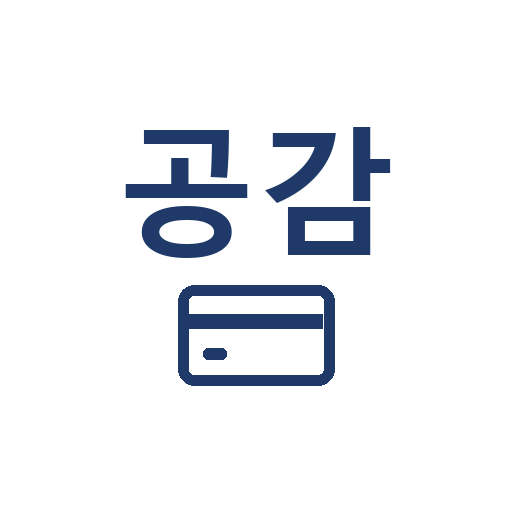
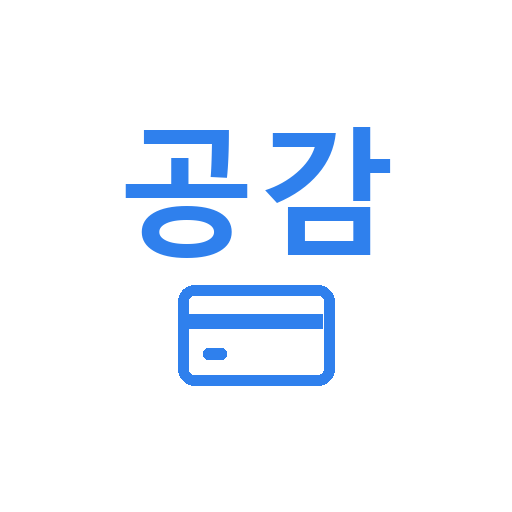
2.1.1 준비: 앱 아이콘 색을 밝은 파랑(#2F80ED)으로

Changed region(s): [[0.3438, 0.5312, 0.6562, 0.7812], [0.25, 0.25, 0.5, 0.5312], [0.5312, 0.25, 0.7812, 0.5]]

diff --git a/tools/app_icon.py b/tools/app_icon.py
@@ -1,4 +1,4 @@
-"""앱 아이콘 그리기 (2.1.1): 흰 배경 + 네이비 '공감' 글자 + 카드 모양. 예전 아이콘의 원형 테두리는 없앴다.
+"""앱 아이콘 그리기 (2.1.1): 흰 배경 + 밝은 파랑(#2F80ED) '공감' 글자 + 카드 모양. 예전 아이콘의 원형 테두리는 없앴다.
 
 사용:
   python tools/app_icon.py preview <out_dir>   # 시안 미리보기(512, 홈 화면 원형·둥근 사각 잘림)
@@ -11,14 +11,16 @@ import sys
 
 from PIL import Image, ImageDraw, ImageFont
 
-NAVY = (31, 58, 104, 255)  # #1F3A68 (앱 포인트 네이비)
+NAVY = (31, 58, 104, 255)  # #1F3A68 (앱 포인트 네이비, 예전 아이콘 색)
+COLOR = (47, 128, 237, 255)  # #2F80ED 밝은 파랑 (2.1.1 사용자 결정. 예전 아이콘은 NAVY)
 WHITE = (255, 255, 255, 255)
 FONT = r'C:\Windows\Fonts\malgunbd.ttf'
 
 
-def draw_symbol(size: int, scale: float = 1.0, card: str = 'outline') -> Image.Image:
+def draw_symbol(size: int, scale: float = 1.0, card: str = 'outline', color=None) -> Image.Image:
     """투명 배경 위에 '공감' + 카드. [scale] 은 내용 크기(적응형 아이콘 안전 영역에 맞출 때 줄임)."""
     s = size / 512 * scale
+    NAVY = color or COLOR
     im = Image.new('RGBA', (size, size), (0, 0, 0, 0))
     d = ImageDraw.Draw(im)
     cx = size / 2
@@ -102,7 +104,23 @@ def build() -> None:
     print('built')
 
 
+def colors(out_dir: str) -> None:
+    """밝은 파랑 계열 색 비교 (홈 화면 크기 원형)"""
+    opts = [('지금', '#1F3A68'), ('1', '#1E6FE0'), ('2', '#2F80ED'), ('3', '#3B9BFF'), ('4', '#1E88E5'), ('5', '#0EA5E9')]
+    tile, pad = 200, 24
+    sheet = Image.new('RGBA', (len(opts) * (tile + pad) + pad, tile + 2 * pad), (238, 240, 243, 255))
+    for i, (_, hexc) in enumerate(opts):
+        rgb = tuple(int(hexc[j:j + 2], 16) for j in (1, 3, 5)) + (255,)
+        im = masked(on_white(draw_symbol(tile * 4, scale=SCALE, color=rgb)), 'circle').resize((tile, tile), Image.LANCZOS)
+        sheet.alpha_composite(im, (pad + i * (tile + pad), pad))
+    os.makedirs(out_dir, exist_ok=True)
+    sheet.convert('RGB').save(os.path.join(out_dir, 'icon_colors.png'))
+    print('ok', [o[1] for o in opts])
+
+
 if __name__ == '__main__':
+    if len(sys.argv) >= 3 and sys.argv[1] == 'colors':
+        colors(sys.argv[2]); sys.exit()
     if len(sys.argv) >= 3 and sys.argv[1] == 'preview':
         preview(sys.argv[2])
     elif len(sys.argv) >= 2 and sys.argv[1] == 'build':
